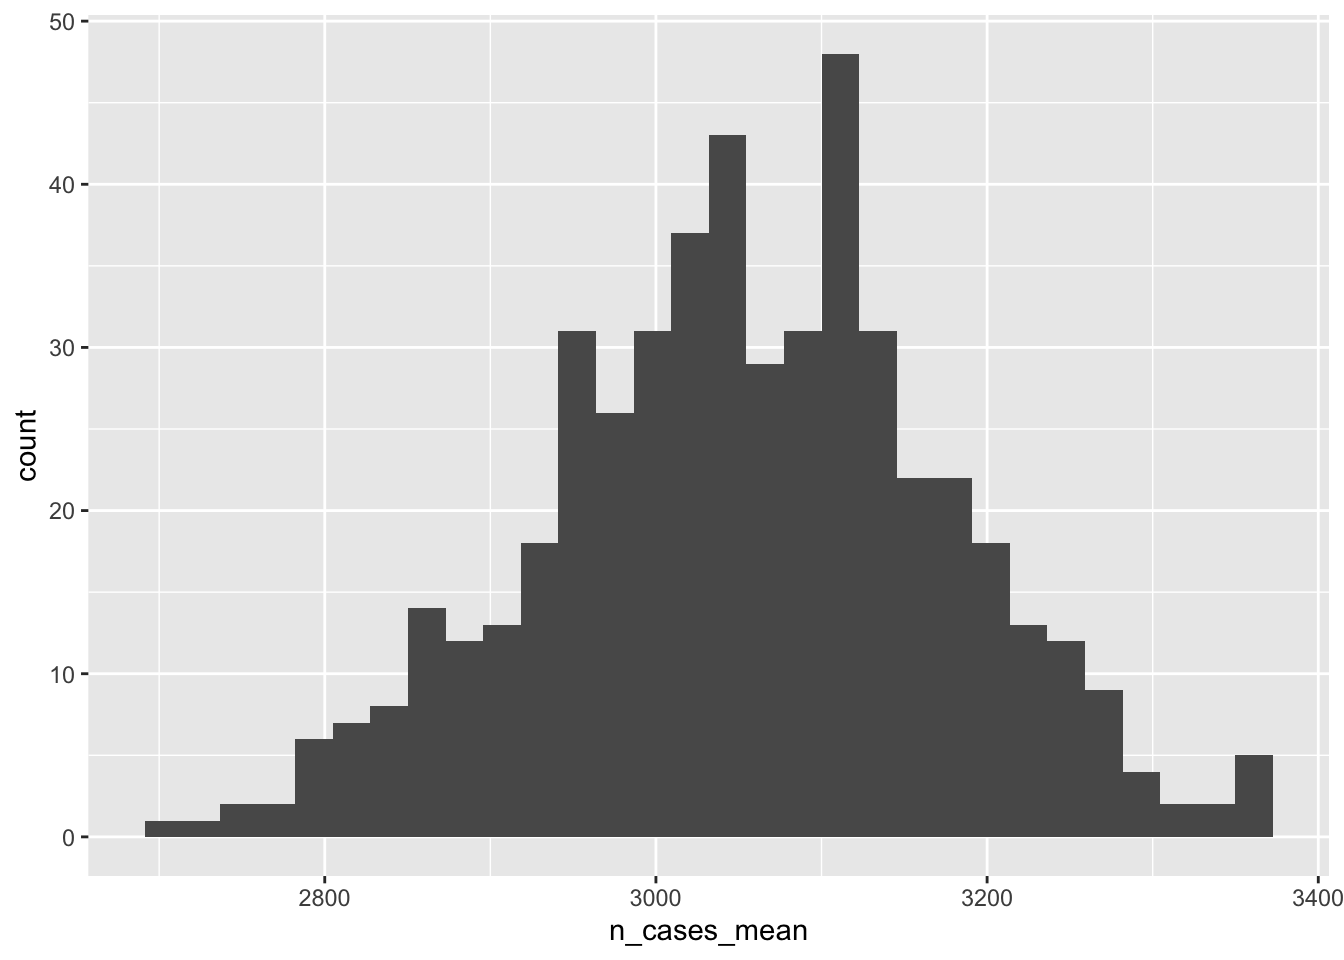
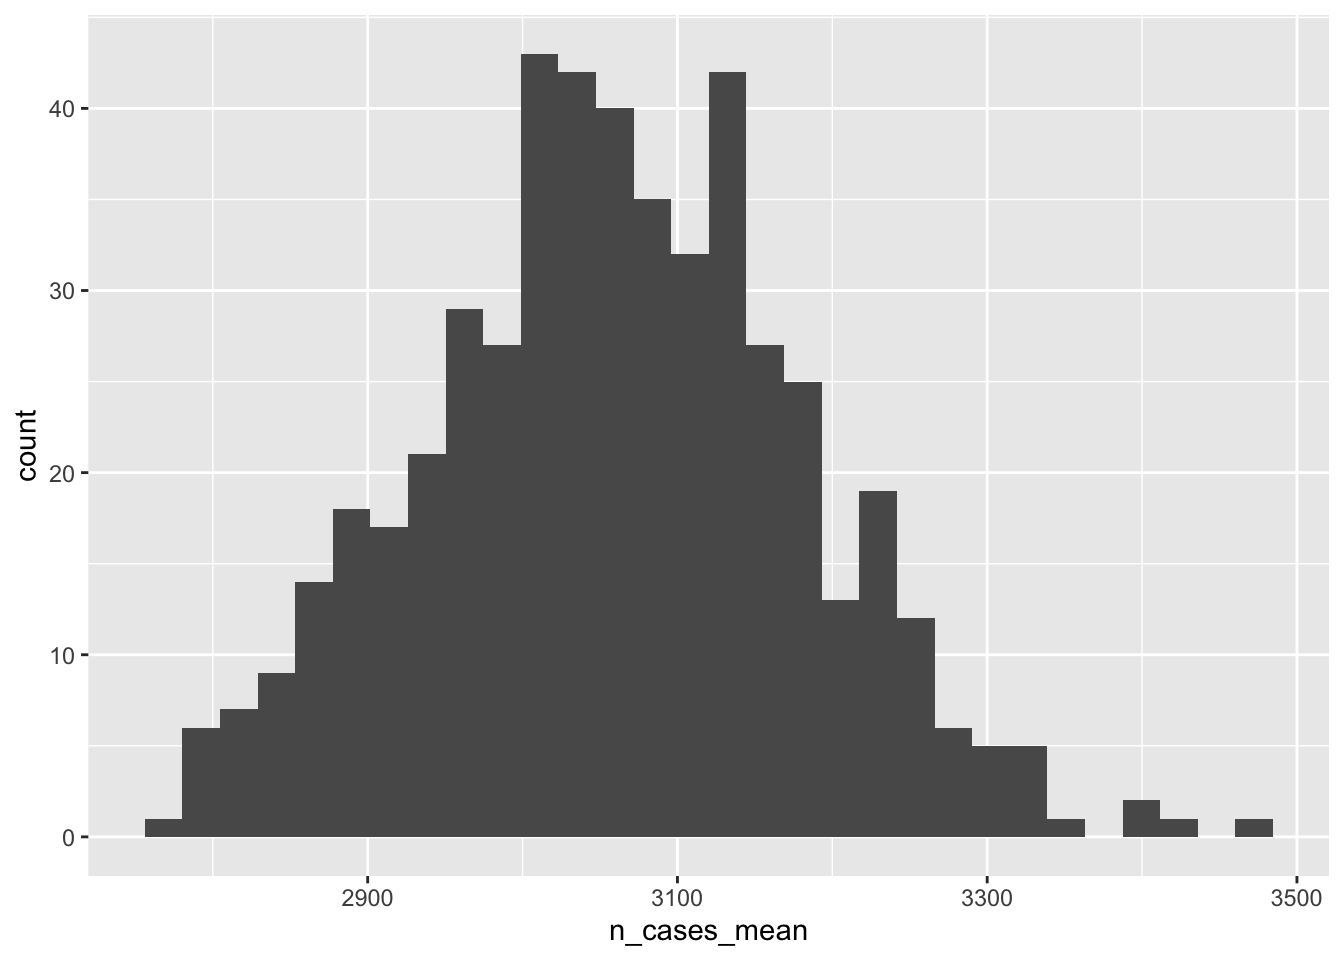
minor revisions to monte-carlo-boot module

diff --git a/docs/5-monte-carlo-boot-purrr.html b/docs/5-monte-carlo-boot-purrr.html
@@ -11,7 +11,7 @@
 
 <meta name="author" content="Michael D Garber" />
 
-<meta name="date" content="2022-08-09" />
+<meta name="date" content="2022-08-11" />
 
 <title>Monte Carlo simulations and boots with the purrr::map_dfr()</title>
 
@@ -370,7 +370,7 @@ div.tocify {
 
 <h1 class="title toc-ignore">Monte Carlo simulations and boots with the purrr::map_dfr()</h1>
 <h4 class="author">Michael D Garber</h4>
-<h4 class="date">2022-08-09</h4>
+<h4 class="date">2022-08-11</h4>
 
 </div>
 
@@ -391,16 +391,16 @@ div.tocify {
 <div id="sources-of-uncertainty-from-multiple-sources" class="section level2" number="2.1">
 <h2><span class="header-section-number">2.1</span> Sources of uncertainty from multiple sources</h2>
 <p>Almost any epidemiological or statistical analysis has uncertainty. Uncertainty may arise within the dataset available for analysis (the sample) or, if we aim to infer characteristics of a larger population from the sample, from sampling. For example, suppose we want to estimate the prevalence of Covid-19 in a county. To do so, we randomly sample 1,000 people from that county and test them using at-home antigen tests. Home tests have good specificity but fairly poor sensitivity,<span class="citation"><sup><a href="#ref-chu2022" role="doc-biblioref">1</a></sup></span> meaning some of the negative results probably were truly positive (false negative). And because the poor sensitivity is a property of the test, not the sampling, this error is expected to occur regardless of the sample size. In addition to this systematic error in measurement, uncertainty arises from the sampling because we don’t know if the Covid prevalence among the 1,000 people we tested represent that of the county. By chance, we could have tested a particularly healthy or sick sample.</p>
-<p>In our final estimate of prevalence, how would we go about summarizing its uncertainty, considering both the expected error in measurement and random error from sampling? Statistics of course has fundamental methods for estimating uncertainty from multiple sources, but many traditional methods involve complex math.<span class="citation"><sup><a href="#ref-distribu2022a" role="doc-biblioref">2</a></sup></span> To simplify the math, analysts often make assumptions that may not hold, for example that random variables considered in the analysis are independent from one another. In this particular example, the two sources of uncertainty (test accuracy and sampling) are actually probably independent from one another, but that independence often does not hold.</p>
+<p>In our final estimate of prevalence, how would we go about summarizing its uncertainty, considering both the expected error in measurement and random error from sampling? Statistics of course has fundamental methods for estimating uncertainty from multiple sources, but many traditional methods involve complex math.<span class="citation"><sup><a href="#ref-distribu2022a" role="doc-biblioref">2</a></sup></span> To simplify the math, analysts often make assumptions that may not hold, for example that random variables considered in the analysis are independent from one another. In this particular example, the two sources of uncertainty (test accuracy and sampling) may be independent from one another, but that independence often does not hold.</p>
 </div>
 <div id="when-independence-between-sources-of-uncertainty-does-not-hold" class="section level2" number="2.2">
 <h2><span class="header-section-number">2.2</span> When independence between sources of uncertainty does not hold</h2>
-<p>For example, in my dissertation, I aimed to estimate the total amount of bicycling on every road in Atlanta. I had two sources of information, both of which had uncertainty. The first was a sample of bicycling on every roadway obtained from a smartphone app, inducing sampling variability and probably other sources of bias.<span class="citation"><sup><a href="#ref-garber2022" role="doc-biblioref">3</a></sup></span> The second was a set of about 15 bicycle counters located throughout the city, assumed to accurately measure all bicycling. I used these counters to estimate the proportion of bicyclists captured by the app. In this analysis, bike traffic in the smartphone-generated sample was correlated with the proportion captured in the app over the counter locations, meaning estimating the variance of their product would require me to consider this correlation. Accurately estimating the variance arising from both of these inter-related sources by appropriately considering their covariance using traditional pen-and-paper statistical methods, and propagating that combined uncertainty through other steps in the analysis which may themselves have uncertainty, would be difficult.</p>
+<p>For example, in my dissertation, I aimed to estimate the total amount of bicycling on every road in Atlanta. I had two sources of information, both of which had uncertainty. The first was a sample of bicycling on every roadway obtained from a smartphone app, inducing sampling variability and probably selection bias.<span class="citation"><sup><a href="#ref-garber2022" role="doc-biblioref">3</a></sup></span> The second was a set of about 15 bicycle counters located throughout the city, assumed to accurately measure all bicycling in that location. I used these counters to estimate the proportion of bicyclists captured by the app. In this analysis, bike traffic in the smartphone-generated sample was correlated with the proportion captured in the app over the counter locations, meaning estimating the variance of their product should consider this lack of independence. Accurately estimating the variance arising from both of these inter-related sources by appropriately considering their covariance using traditional pen-and-paper statistical methods, and propagating that combined uncertainty through other steps in the analysis which may themselves have uncertainty, would be difficult.</p>
 </div>
 </div>
 <div id="estimating-variability-via-repeated-resampling-of-random-variations" class="section level1" number="3">
 <h1><span class="header-section-number">3</span> Estimating variability via repeated (re)sampling of random variations</h1>
-<p>Fortunately, we can estimate uncertainty using the computer which largely obviates the need to do complex math. Two broad (and, depending on the definition, overlapping) ways to estimate uncertainty using computer-based simulation techniques are <strong>Monte Carlo simulations</strong> and <strong>bootstrapping</strong>. In addition to easing the math, these simulation methods can help the analyst visualize how and when something varies in the analysis, which facilitates clarity and understanding.</p>
+<p>Fortunately, we can estimate uncertainty using the computer which largely obviates the need to do complex math. Two broad ways to estimate uncertainty using computer-based simulation techniques are <strong>Monte Carlo simulations</strong> and <strong>bootstrapping</strong>. In addition to easing the math, these simulation methods can help the analyst see how and when something varies in the analysis, which facilitates clarity and understanding.</p>
 <div id="monte-carlo-simulations" class="section level2" number="3.1">
 <h2><span class="header-section-number">3.1</span> Monte Carlo simulations</h2>
 <blockquote>
@@ -526,8 +526,8 @@ class(rep_id_val_list)</code></pre>
 </div>
 <div id="run-the-replications" class="section level3" number="4.1.2">
 <h3><span class="header-section-number">4.1.2</span> Run the replications</h3>
-<p>Simulate 500 versions of this state. In each replication, the values for the variables <code>pop</code>, <code>dem</code>, <code>prev</code>, and <code>n_cases</code> randomly vary according to their specified distribution. We use <code>map_dfr()</code> from the <a href="https://purrr.tidyverse.org/">purrr</a> package to run the simulation and then stack the results on top of one another, akin to <code>mutate::bind_rows()</code>.</p>
-<p>Take note the unusual structure of this code. The function we created above, <code>monte_carlo_sim_fun(),</code> is inside <code>map_dfr()</code>, and the list of replication ids, <code>rep_id_val_list,</code> begins the pipe sequence.</p>
+<p>Simulate 500 versions of this state. In each replication, the values for the variables <code>pop</code>, <code>dem</code>, <code>prev</code>, and <code>n_cases</code> randomly vary according to their specified distribution. We use <a href="https://purrr.tidyverse.org/reference/map.html"><code>map_dfr()</code></a> from the <a href="https://purrr.tidyverse.org/">purrr</a> package to run the simulation and then stack the results on top of one another, akin to <code>dplyr::bind_rows()</code>.</p>
+<p>Take note the unusual structure of this code. The function we created above, <code>monte_carlo_sim_fun</code> is inside <code>map_dfr()</code>, and the list of replication ids, <code>rep_id_val_list,</code> is the object that begins the pipe sequence.</p>
 <pre class="r"><code>library(purrr) #make sure it&#39;s attached
 set.seed(NULL) #allow it to vary differently each time.
 monte_carlo_sim_lots  = rep_id_val_list %&gt;% 
@@ -535,18 +535,18 @@ monte_carlo_sim_lots  = rep_id_val_list %&gt;%
 <p>Take a look at output.</p>
 <pre class="r"><code>monte_carlo_sim_lots</code></pre>
 <pre><code>## # A tibble: 50,000 × 7
-##    county_id state   pop   dem  prev n_cases rep_id
-##        &lt;int&gt; &lt;dbl&gt; &lt;int&gt; &lt;int&gt; &lt;dbl&gt;   &lt;int&gt;  &lt;int&gt;
-##  1         1     1 10027     1 0.168    1680      1
-##  2         2     1  9943     0 0.296    2941      1
-##  3         3     1  9907     0 0.110    1092      1
-##  4         4     1  9968     0 0.328    3273      1
-##  5         5     1 10037     1 0.256    2567      1
-##  6         6     1 10150     0 0.329    3340      1
-##  7         7     1 10119     1 0.318    3214      1
-##  8         8     1 10058     1 0.369    3713      1
-##  9         9     1 10049     0 0.320    3219      1
-## 10        10     1  9860     1 0.205    2023      1
+##    county_id state   pop   dem   prev n_cases rep_id
+##        &lt;int&gt; &lt;dbl&gt; &lt;int&gt; &lt;int&gt;  &lt;dbl&gt;   &lt;int&gt;  &lt;int&gt;
+##  1         1     1 10006     0 0.178     1779      1
+##  2         2     1 10011     1 0.129     1291      1
+##  3         3     1  9923     1 0.460     4565      1
+##  4         4     1 10068     0 0.226     2271      1
+##  5         5     1  9827     0 0.0526     516      1
+##  6         6     1  9833     1 0.209     2051      1
+##  7         7     1  9927     0 0.171     1701      1
+##  8         8     1 10028     0 0.180     1801      1
+##  9         9     1 10139     1 0.292     2963      1
+## 10        10     1  9961     1 0.341     3398      1
 ## # … with 49,990 more rows
 ## # ℹ Use `print(n = ...)` to see more rows</code></pre>
 <p>How many rows?</p>
@@ -558,7 +558,7 @@ monte_carlo_sim_lots  = rep_id_val_list %&gt;%
 </div>
 <div id="summarize-results" class="section level3" number="4.1.3">
 <h3><span class="header-section-number">4.1.3</span> Summarize results</h3>
-<p>What’s the distribution of <code>n_cases_mean</code> over Monte Carlo replications? This is not the variability of the number of cases within the state between counties but rather the variability of the mean number of county-level cases for the state between replications.</p>
+<p>What’s the distribution of <code>n_cases_mean</code> over Monte Carlo replications? This is not the variability of the number of cases within the state between counties but rather the variability of the mean number of cases over counties between replications.</p>
 <pre class="r"><code>monte_carlo_sim_lots %&gt;% 
   group_by(rep_id,state) %&gt;% 
   summarise(
@@ -590,7 +590,7 @@ monte_carlo_sim_lots  = rep_id_val_list %&gt;%
 <pre><code>## # A tibble: 1 × 5
 ##   state n_cases_mean_ll n_cases_mean_med n_cases_mean_ul simulation_type
 ##   &lt;dbl&gt;           &lt;dbl&gt;            &lt;dbl&gt;           &lt;dbl&gt; &lt;chr&gt;          
-## 1     1           2793.            3020.           3278. monte-carlo</code></pre>
+## 1     1           2777.            3013.           3245. monte-carlo</code></pre>
 </div>
 </div>
 <div id="bootstrap" class="section level2" number="4.2">
@@ -604,23 +604,23 @@ monte_carlo_sim_lots  = rep_id_val_list %&gt;%
 <pre><code>## # A tibble: 100 × 6
 ##    county_id state   pop   dem   prev n_cases
 ##        &lt;int&gt; &lt;dbl&gt; &lt;int&gt; &lt;int&gt;  &lt;dbl&gt;   &lt;int&gt;
-##  1        22     1  9901     1 0.370     3660
-##  2         3     1  9863     1 0.492     4849
-##  3         6     1 10062     1 0.435     4378
-##  4        51     1 10006     1 0.420     4205
-##  5         2     1  9780     1 0.455     4448
-##  6        56     1 10007     0 0.0461     460
-##  7        23     1 10068     0 0.350     3523
-##  8        98     1 10105     1 0.251     2539
-##  9        99     1  9864     0 0.232     2285
-## 10         8     1  9995     1 0.634     6340
+##  1        30     1  9922     1 0.303     3010
+##  2        61     1  9910     1 0.520     5148
+##  3        85     1 10002     0 0.0276     276
+##  4        66     1  9870     1 0.570     5628
+##  5        86     1 10100     1 0.338     3408
+##  6        77     1 10070     0 0.395     3975
+##  7         2     1  9780     1 0.455     4448
+##  8        49     1 10033     1 0.347     3486
+##  9        69     1  9963     0 0.119     1184
+## 10        60     1 10036     0 0.237     2382
 ## # … with 90 more rows
 ## # ℹ Use `print(n = ...)` to see more rows</code></pre>
 <p>As expected, we have the same number of rows, but fewer unique values for <code>county_id.</code> Some are repeating.</p>
 <pre class="r"><code>nrow(monte_carlo_sim_one_boot)</code></pre>
 <pre><code>## [1] 100</code></pre>
 <pre class="r"><code>n_distinct(monte_carlo_sim_one_boot$county_id)</code></pre>
-<pre><code>## [1] 66</code></pre>
+<pre><code>## [1] 69</code></pre>
 <p>Repeat this bootstrap procedure 500 times by first writing a function and then iterating replications through that function using <code>purrr::map_dfr()</code></p>
 <div id="define-a-function-for-replications-1" class="section level3" number="4.2.1">
 <h3><span class="header-section-number">4.2.1</span> Define a function for replications</h3>
@@ -642,16 +642,16 @@ monte_carlo_sim_lots  = rep_id_val_list %&gt;%
 <pre><code>## # A tibble: 50,000 × 7
 ##    county_id state   pop   dem   prev n_cases rep_id
 ##        &lt;int&gt; &lt;dbl&gt; &lt;int&gt; &lt;int&gt;  &lt;dbl&gt;   &lt;int&gt;  &lt;int&gt;
-##  1        13     1 10088     0 0.286     2887      1
-##  2        77     1 10070     0 0.395     3975      1
-##  3        87     1 10139     1 0.199     2016      1
-##  4        60     1 10036     0 0.237     2382      1
-##  5        82     1 10146     1 0.308     3120      1
-##  6        30     1  9922     1 0.303     3010      1
-##  7        73     1  9964     1 0.246     2448      1
-##  8        42     1 10054     1 0.224     2251      1
-##  9        56     1 10007     0 0.0461     460      1
-## 10        47     1  9904     0 0.206     2042      1
+##  1        19     1 10000     0 0.527     5271      1
+##  2        97     1 10028     1 0.456     4568      1
+##  3        48     1  9804     0 0.157     1539      1
+##  4        40     1  9936     0 0.172     1707      1
+##  5        58     1 10015     0 0.0619     619      1
+##  6        45     1 10006     1 0.396     3961      1
+##  7        66     1  9870     1 0.570     5628      1
+##  8        50     1 10047     1 0.354     3557      1
+##  9        40     1  9936     0 0.172     1707      1
+## 10        63     1  9934     0 0.329     3271      1
 ## # … with 49,990 more rows
 ## # ℹ Use `print(n = ...)` to see more rows</code></pre>
 <p>What’s the distribution of <code>n_cases_mean</code> over bootstrap replications?</p>
@@ -686,15 +686,15 @@ monte_carlo_sim_lots  = rep_id_val_list %&gt;%
 <pre><code>## # A tibble: 1 × 5
 ##   state n_cases_mean_ll n_cases_mean_med n_cases_mean_ul simulation_type
 ##   &lt;dbl&gt;           &lt;dbl&gt;            &lt;dbl&gt;           &lt;dbl&gt; &lt;chr&gt;          
-## 1     1           2808.            3053.           3282. bootstrap</code></pre>
+## 1     1           2826.            3054.           3295. bootstrap</code></pre>
 <p>How does this estimate of the sampling distribution of <code>n_cases_mean</code> align with the truth? We happen to know the truth here. It’s the distribution of <code>n_cases_mean</code> between the Monte Carlo simulations, defined above.</p>
 <pre class="r"><code>monte_carlo_sim_lots_summary %&gt;% 
   bind_rows(boot_lots_summary)</code></pre>
 <pre><code>## # A tibble: 2 × 5
 ##   state n_cases_mean_ll n_cases_mean_med n_cases_mean_ul simulation_type
 ##   &lt;dbl&gt;           &lt;dbl&gt;            &lt;dbl&gt;           &lt;dbl&gt; &lt;chr&gt;          
-## 1     1           2793.            3020.           3278. monte-carlo    
-## 2     1           2808.            3053.           3282. bootstrap</code></pre>
+## 1     1           2777.            3013.           3245. monte-carlo    
+## 2     1           2826.            3054.           3295. bootstrap</code></pre>
 </div>
 </div>
 </div>
@@ -719,7 +719,8 @@ monte_carlo_sim_lots  = rep_id_val_list %&gt;%
 </div>
 <div id="more-on-functions" class="section level1" number="6">
 <h1><span class="header-section-number">6</span> More on functions</h1>
-<p>In addition to their use for simulations as above, functions can also be used simply to reduce repetition in code. Sometimes you end up writing the same or similar code many times and apply that code to several datasets. For example, above we wrote basically the same sequence of dplyr functions to define <code>monte_carlo_sim_frozen</code> as we did to define the function, <code>monte_carlo_sim_fun()</code>. Here is a set of dplyr steps combined into one function.</p>
+<p>In addition to their use for simulations as above, functions can also be used simply to reduce repetition in code. Sometimes you end up writing the same or similar code many times and apply that code to several datasets. For example, above we wrote an almost identical equence of dplyr functions to define both <code>monte_carlo_sim_frozen</code> and the function, <code>monte_carlo_sim_fun()</code>.</p>
+<p>Here is an example sequence of dplyr steps combined into one function.</p>
 <pre class="r"><code>do_some_dplyr_stuff = function(df){ 
   df %&gt;%
   mutate(
@@ -739,7 +740,7 @@ function_result_one_county</code></pre>
 <pre><code>## # A tibble: 1 × 5
 ##   state county_id example_var_x example_var_y example_var_z
 ##   &lt;dbl&gt;     &lt;int&gt;         &lt;dbl&gt;         &lt;dbl&gt;         &lt;int&gt;
-## 1     1         2         0.712             4             0</code></pre>
+## 1     1         2        -0.908             4             1</code></pre>
 </div>
 <div id="references" class="section level1 unnumbered">
 <h1><strong>References</strong></h1>
